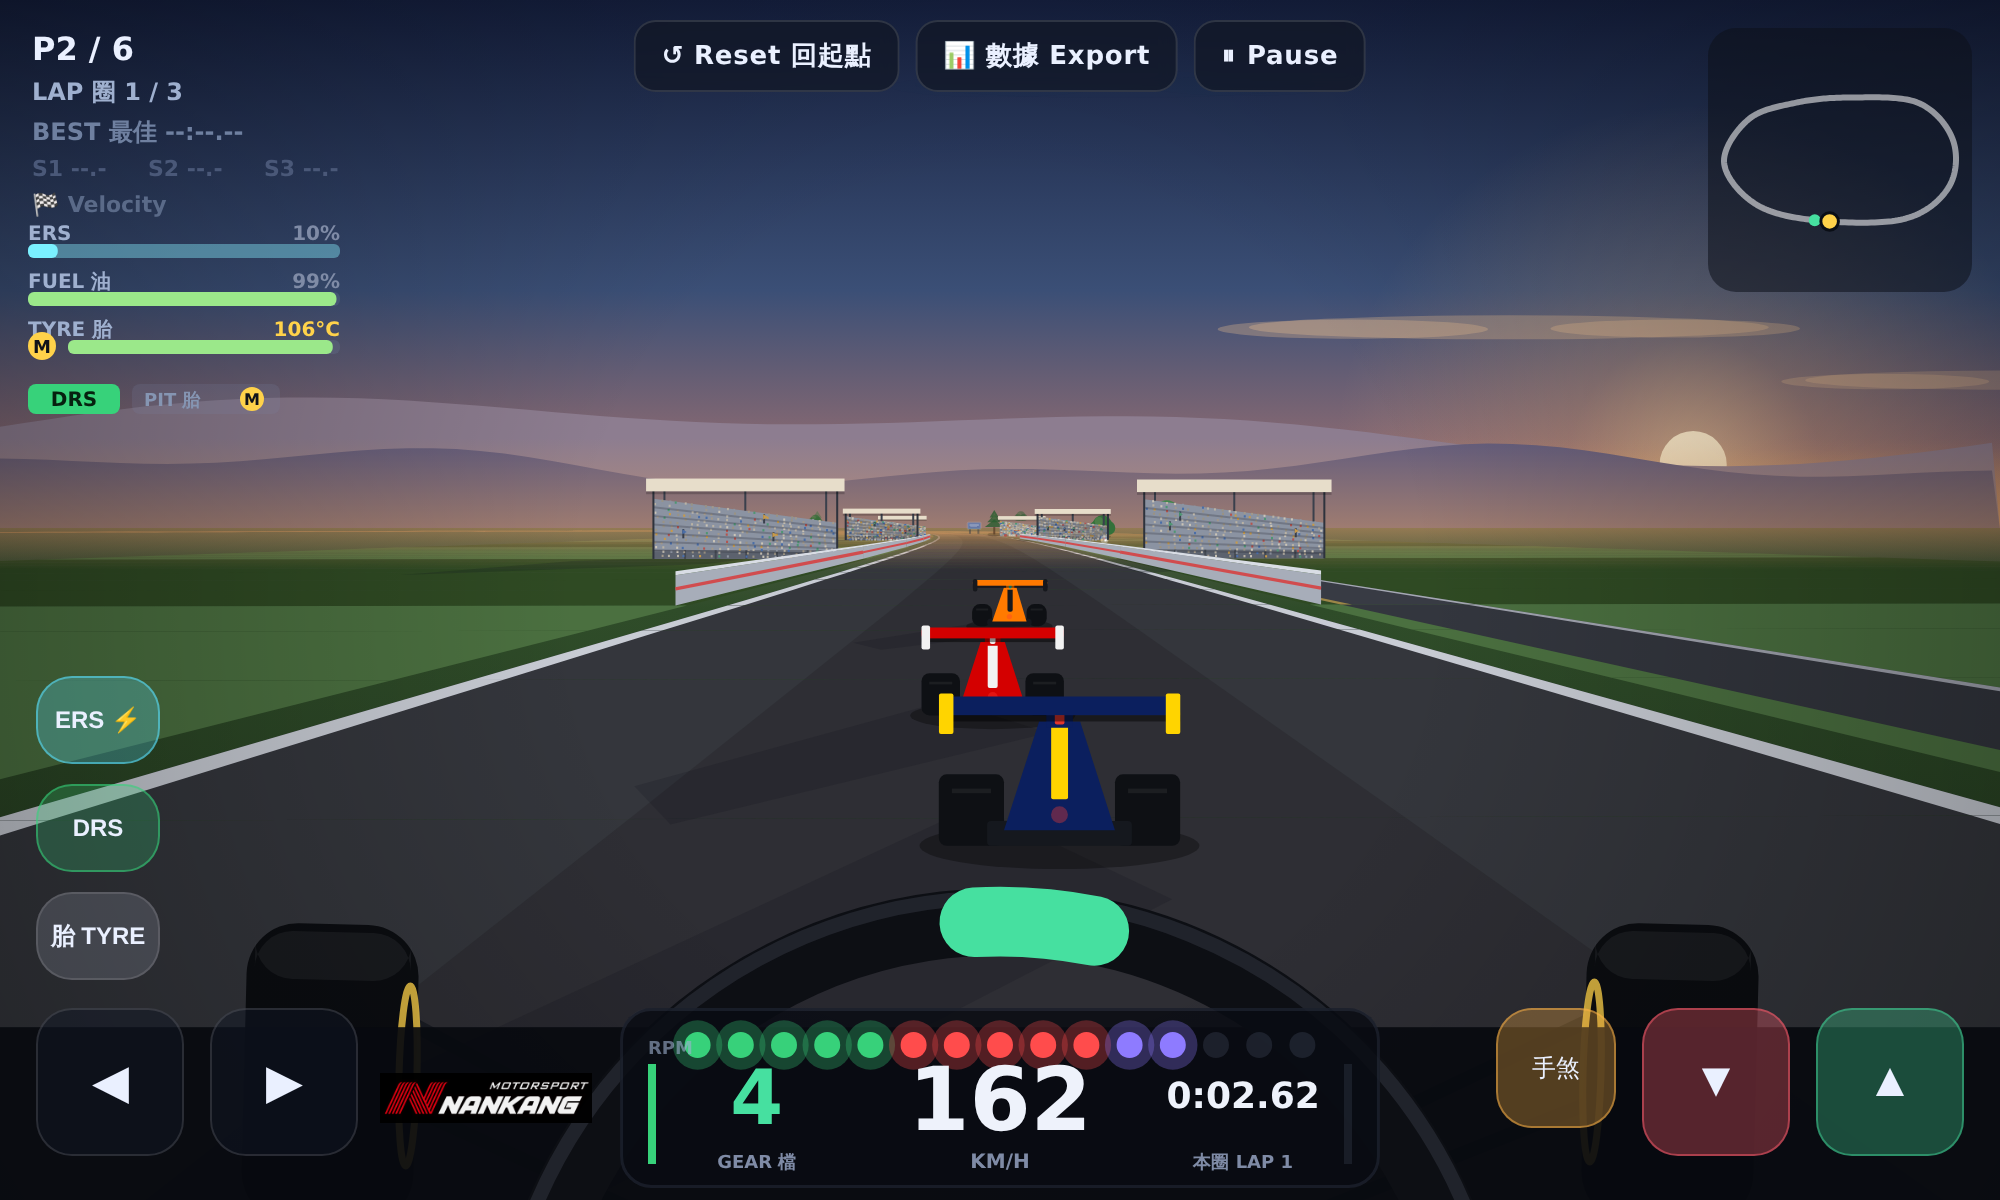
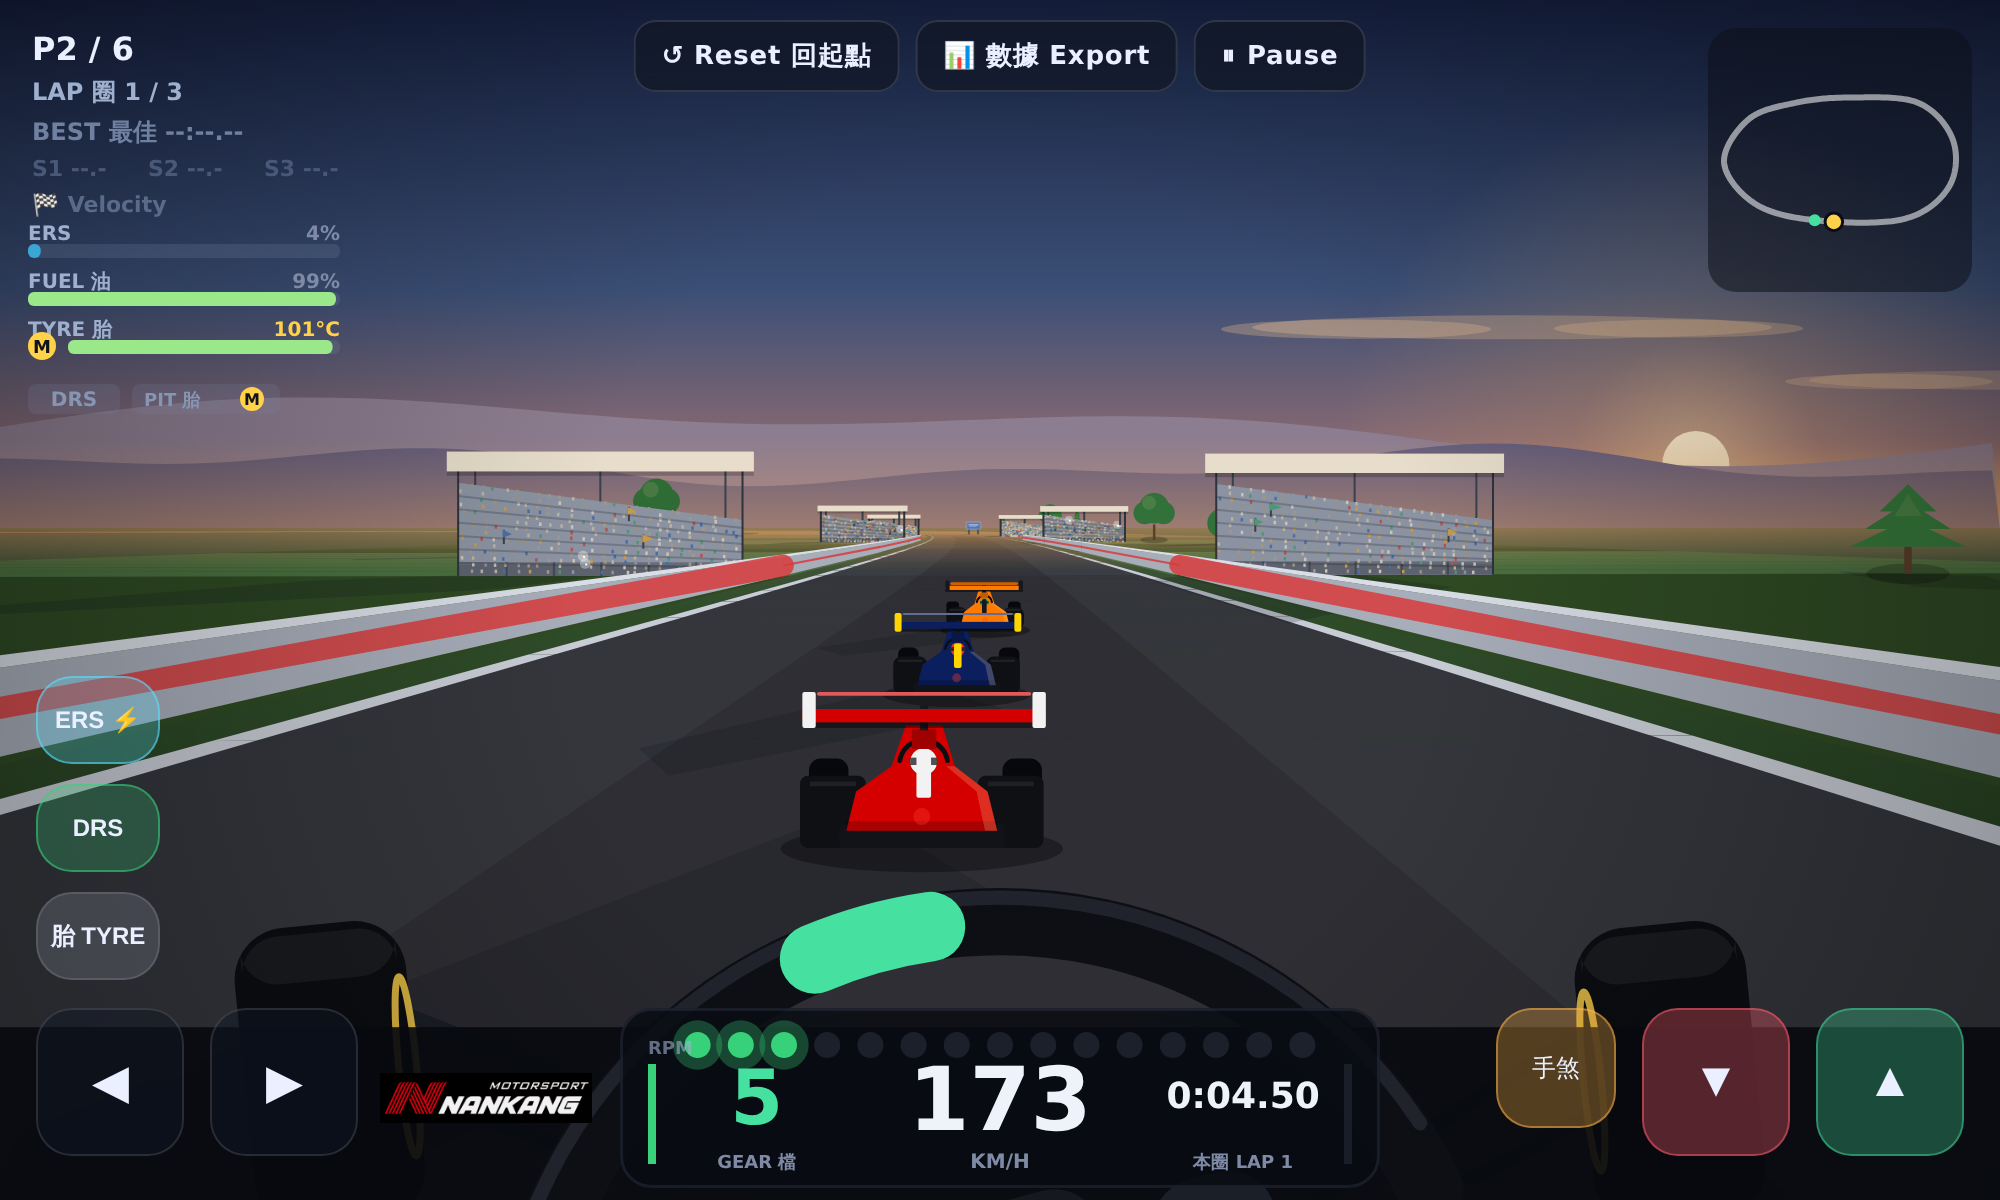
Apex GP: rival car glow-up — waisted bodywork, helmet + halo, visible DRS flap
- proper body silhouette: sidepods swelling at the floor, waisting at the cockpit,
  tapering into the engine cover (was a flat trapezoid)
- driver helmet with visor band under a halo hoop; airbox intake + spine stripe
- front tyres peeking past the body, swinging wider than it under yaw — the clearest
  "he's turning" cue at a distance
- two-tier rear wing whose flap visibly lies flat and brightens when DRS opens
- low-sun modelling: warm rim light on the sun-side flank, floor shadow, and a light
  high-frequency shimmy at speed so the car reads as alive
- fresh gallery screenshot featuring the new sprites

diff --git a/f1_racing/index.html b/f1_racing/index.html
@@ -1001,6 +1001,18 @@ function drawSmokeP() {
 const FOG_RGB = [217, 154, 99];
 const _fogCache = new Map();                       // '#rrggbb'+step -> blended 'rgb()' (few dozen entries)
 function fogAt(fwd) { return Math.max(0, Math.min(1, (fwd - 70) / 260)); }
+// darken (k<1) or lighten toward white (k>1) a '#rrggbb' colour, cached
+const _tintCache = new Map();
+function tint(hex, k) {
+  const key = hex + '|' + k; let c = _tintCache.get(key);
+  if (!c) {
+    const r = parseInt(hex.slice(1, 3), 16), g = parseInt(hex.slice(3, 5), 16), b = parseInt(hex.slice(5, 7), 16);
+    const f = v => Math.max(0, Math.min(255, Math.round(k >= 1 ? v + (255 - v) * (k - 1) : v * k)));
+    c = 'rgb(' + f(r) + ',' + f(g) + ',' + f(b) + ')';
+    _tintCache.set(key, c);
+  }
+  return c;
+}
 function fogBlend(hex, f) {
   const q = Math.round(f * 10); if (q <= 0) return hex;
   const key = hex + q; let c = _fogCache.get(key);
@@ -1345,44 +1357,87 @@ function drawCars() {
   }
   ctx.globalAlpha = 1;
 }
-// rear-3/4 view of an open-wheeler: fat rear tyres, tapered engine cover, central fin and a wide
-// rear wing with endplates, painted in the car's livery so each rival reads as its real-life team.
+// rear-3/4 view of an open-wheeler: front tyres peeking past the sidepods, a proper waisted
+// body, helmet under the halo, and a two-tier rear wing whose flap visibly opens with DRS —
+// painted in the car's livery so each rival reads as its real-life team.
 function drawCarSprite(c, p) {
-  const sc = p.sc, w = 2.05 * sc, h = 1.32 * sc, cx = p.x, gy = p.y;
+  const sc = p.sc, w = 2.05 * sc, h = 1.32 * sc, cx = p.x;
   if (cx < -w || cx > W + w || w < 1.4) return;                          // off-screen / too tiny to detail
-  const L = c.livery, topY = gy - h, half = w * 0.5;
+  const L = c.livery, half = w * 0.5;
   // yaw shear: when the rival is angled relative to our view (turning in, sliding), its
   // upper bodywork slides sideways while the tyres stay planted — a cheap 3/4 view
   let relA = c.a - camYaw; while (relA > Math.PI) relA -= 2 * Math.PI; while (relA < -Math.PI) relA += 2 * Math.PI;
   const shear = Math.max(-1, Math.min(1, Math.sin(relA) * 1.5)) * w * 0.16;
-  // ground shadow
-  ctx.fillStyle = 'rgba(0,0,0,.32)'; ctx.beginPath(); ctx.ellipse(cx, gy, w * 0.58, h * 0.15, 0, 0, 7); ctx.fill();
+  // a light high-frequency shimmy at speed so the car reads as alive, not a sticker
+  const spd = Math.hypot(c.vx, c.vy);
+  const bob = Math.min(1, spd / 30) * Math.sin(perf * 0.03 + c.name.length * 2.1) * h * 0.015;
+  const gy = p.y + bob, topY = gy - h;
+  // ground shadow (no bob — it stays on the road)
+  ctx.fillStyle = 'rgba(0,0,0,.32)'; ctx.beginPath(); ctx.ellipse(cx, p.y, w * 0.58, h * 0.15, 0, 0, 7); ctx.fill();
+  // front tyres peeking above/beside the rears — smaller with distance, and swinging
+  // wider than the body when the car is angled (the strongest turning cue)
+  const tyW = w * 0.27, tyH = h * 0.46, fw = tyW * 0.60, fh = tyH * 0.62, fShear = shear * 1.6;
+  ctx.fillStyle = '#07080b';
+  rrectP(cx + fShear - half + tyW * 0.08, gy - tyH * 0.62 - fh, fw, fh, fw * 0.3); ctx.fill();
+  rrectP(cx + fShear + half - tyW * 0.08 - fw, gy - tyH * 0.62 - fh, fw, fh, fw * 0.3); ctx.fill();
   // rear tyres
-  const tyW = w * 0.27, tyH = h * 0.46;
   ctx.fillStyle = '#0e1014';
   rrectP(cx - half, gy - tyH, tyW, tyH, Math.min(4, tyW * 0.4)); ctx.fill();
   rrectP(cx + half - tyW, gy - tyH, tyW, tyH, Math.min(4, tyW * 0.4)); ctx.fill();
-  ctx.fillStyle = 'rgba(255,255,255,.06)'; ctx.fillRect(cx - half + tyW * 0.2, gy - tyH * 0.8, tyW * 0.6, Math.max(1, h * 0.03));
-  ctx.fillRect(cx + half - tyW * 0.8, gy - tyH * 0.8, tyW * 0.6, Math.max(1, h * 0.03));
-  // diffuser / floor across the centre bottom
-  ctx.fillStyle = '#15181e'; rrectP(cx - w * 0.3, gy - h * 0.16, w * 0.6, h * 0.16, 2); ctx.fill();
-  // engine cover (tapered trapezoid) in base colour — top edge shears with yaw
+  ctx.fillStyle = 'rgba(255,255,255,.07)';                               // top sheen on the rubber
+  ctx.fillRect(cx - half + tyW * 0.15, gy - tyH * 0.92, tyW * 0.7, Math.max(1, h * 0.03));
+  ctx.fillRect(cx + half - tyW * 0.85, gy - tyH * 0.92, tyW * 0.7, Math.max(1, h * 0.03));
+  // floor / diffuser spanning the tyres
+  ctx.fillStyle = '#111318'; rrectP(cx - w * 0.34, gy - h * 0.15, w * 0.68, h * 0.15, 2); ctx.fill();
+  // bodywork: sidepods swelling out at the floor, waisting in at the cockpit, tapering
+  // into the engine cover — the top shears with yaw
   ctx.fillStyle = L.base;
   ctx.beginPath();
-  ctx.moveTo(cx - w * 0.23, gy - h * 0.1); ctx.lineTo(cx + w * 0.23, gy - h * 0.1);
-  ctx.lineTo(cx + shear + w * 0.085, topY + h * 0.2); ctx.lineTo(cx + shear - w * 0.085, topY + h * 0.2);
+  ctx.moveTo(cx - w * 0.31, gy - h * 0.11);
+  ctx.lineTo(cx - w * 0.27, gy - h * 0.36);
+  ctx.lineTo(cx + shear * 0.6 - w * 0.13, gy - h * 0.52);
+  ctx.lineTo(cx + shear - w * 0.075, topY + h * 0.22);
+  ctx.lineTo(cx + shear + w * 0.075, topY + h * 0.22);
+  ctx.lineTo(cx + shear * 0.6 + w * 0.13, gy - h * 0.52);
+  ctx.lineTo(cx + w * 0.27, gy - h * 0.36);
+  ctx.lineTo(cx + w * 0.31, gy - h * 0.11);
   ctx.closePath(); ctx.fill();
-  // central accent stripe + airbox fin
-  ctx.fillStyle = L.accent; rrectP(cx + shear * 0.85 - w * 0.035, topY + h * 0.2, w * 0.07, h * 0.5, 1); ctx.fill();
-  ctx.fillStyle = L.base; rrectP(cx + shear - w * 0.055, topY + h * 0.08, w * 0.11, h * 0.16, 1); ctx.fill();
-  if (L.hint) { ctx.fillStyle = L.hint; rrectP(cx + shear - w * 0.02, topY + h * 0.1, w * 0.04, h * 0.12, 1); ctx.fill(); }
-  // rear wing: wide top plane + dark trailing lip + endplates, riding the same shear
-  const wingY = topY + h * 0.04, wingH = h * 0.12, wx = cx + shear;
+  // low-sun modelling: shade near the floor, a warm rim light down the sun-side flank
+  ctx.fillStyle = 'rgba(0,0,0,.20)'; ctx.fillRect(cx - w * 0.31, gy - h * 0.17, w * 0.62, h * 0.06);
+  let sdA = SUN_AZ - camYaw; while (sdA > Math.PI) sdA -= 2 * Math.PI; while (sdA < -Math.PI) sdA += 2 * Math.PI;
+  const ss = sdA >= 0 ? 1 : -1;
+  ctx.fillStyle = 'rgba(255,214,150,.22)';
+  ctx.beginPath();
+  ctx.moveTo(cx + ss * w * 0.31, gy - h * 0.11);
+  ctx.lineTo(cx + ss * w * 0.27, gy - h * 0.36);
+  ctx.lineTo(cx + shear * 0.6 + ss * w * 0.13, gy - h * 0.52);
+  ctx.lineTo(cx + shear * 0.6 + ss * w * 0.095, gy - h * 0.52);
+  ctx.lineTo(cx + ss * w * 0.225, gy - h * 0.36);
+  ctx.lineTo(cx + ss * w * 0.26, gy - h * 0.11);
+  ctx.closePath(); ctx.fill();
+  // cockpit: helmet with a visor band, framed by the halo hoop
+  const hx = cx + shear * 0.8, hy = gy - h * 0.55, hr = Math.max(1.2, w * 0.055);
+  ctx.fillStyle = L.hint || '#e8e4da';
+  ctx.beginPath(); ctx.arc(hx, hy, hr, 0, 7); ctx.fill();
+  ctx.fillStyle = 'rgba(10,12,16,.7)'; ctx.fillRect(hx - hr, hy - hr * 0.3, hr * 2, hr * 0.55);
+  ctx.strokeStyle = '#0c0e12'; ctx.lineWidth = Math.max(1, w * 0.02);
+  ctx.beginPath(); ctx.arc(hx, hy + hr * 0.2, hr * 1.8, Math.PI * 1.05, Math.PI * 1.95); ctx.stroke();
+  // airbox intake + spine stripe down the engine cover
+  ctx.fillStyle = tint(L.base, 0.75); rrectP(cx + shear - w * 0.05, topY + h * 0.24, w * 0.10, h * 0.13, 1); ctx.fill();
+  ctx.fillStyle = L.accent; rrectP(cx + shear * 0.85 - w * 0.03, topY + h * 0.38, w * 0.06, h * 0.30, 1); ctx.fill();
+  // wing pylon + two-tier rear wing: the upper flap sits closed, and visibly LIES FLAT
+  // (thin, raised, brighter) when the DRS is open on the straights
+  const wx = cx + shear;
+  ctx.fillStyle = '#15181e'; ctx.fillRect(wx - Math.max(1, w * 0.016), topY + h * 0.09, Math.max(2, w * 0.032), h * 0.16);
+  const wingY = topY + h * 0.115, wingH = h * 0.085;
   ctx.fillStyle = L.wing; rrectP(wx - half, wingY, w, wingH, 2); ctx.fill();
-  ctx.fillStyle = 'rgba(0,0,0,.45)'; ctx.fillRect(wx - half, wingY + wingH, w, Math.max(1, h * 0.04));
+  ctx.fillStyle = 'rgba(0,0,0,.45)'; ctx.fillRect(wx - half, wingY + wingH, w, Math.max(1, h * 0.035));
+  if (c.drs) { ctx.fillStyle = tint(L.wing, 1.35); rrectP(wx - half + w * 0.06, topY + h * 0.005, w * 0.88, Math.max(1, h * 0.025), 1); ctx.fill(); }
+  else { ctx.fillStyle = tint(L.wing, 0.8); rrectP(wx - half + w * 0.06, topY + h * 0.045, w * 0.88, h * 0.055, 1); ctx.fill(); }
+  // endplates
   ctx.fillStyle = L.accent;
-  rrectP(wx - half, wingY - h * 0.02, w * 0.06, wingH + h * 0.14, 1); ctx.fill();
-  rrectP(wx + half - w * 0.06, wingY - h * 0.02, w * 0.06, wingH + h * 0.14, 1); ctx.fill();
+  rrectP(wx - half, topY + h * 0.005, w * 0.055, h * 0.23, 1); ctx.fill();
+  rrectP(wx + half - w * 0.055, topY + h * 0.005, w * 0.055, h * 0.23, 1); ctx.fill();
   // rain light: dim by default, blazing with a glow while the rival is on the brakes
   const braking = c.brake > 0.25, lr = Math.max(1, w * 0.035);
   ctx.fillStyle = braking ? '#ff2d23' : 'rgba(255,59,48,.35)';
